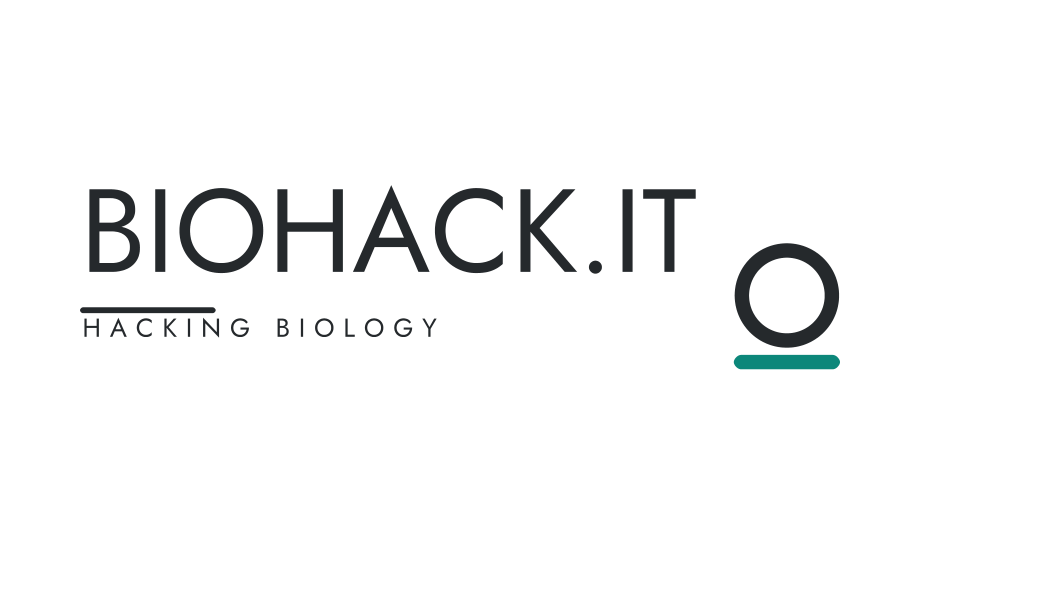
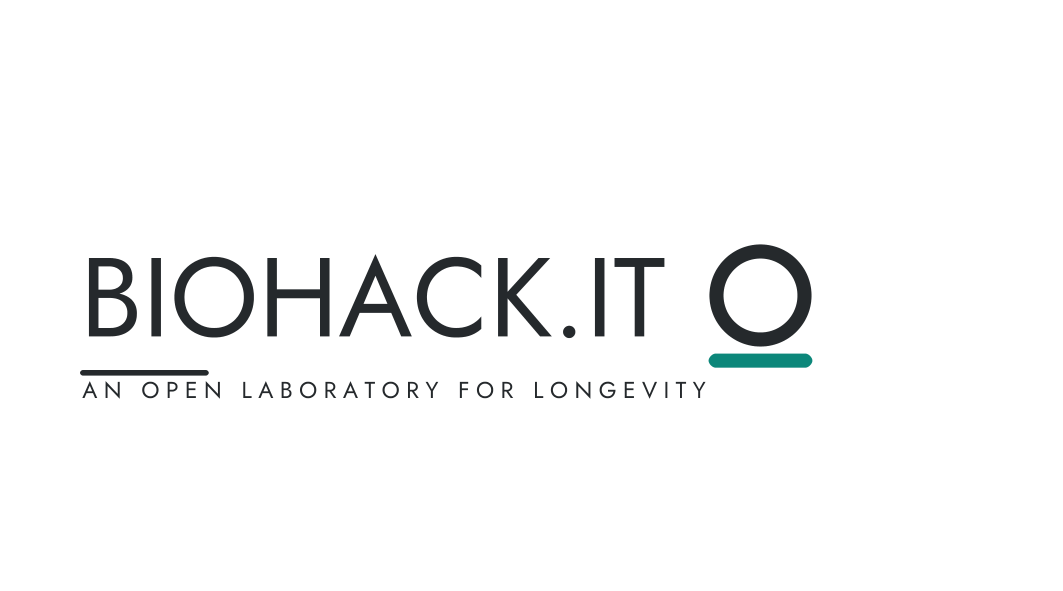
Two-line lockup system + mark alignment; payoff vs 'Hacking Biology'
- Kit: logos now use the payoff 'AN OPEN LABORATORY FOR LONGEVITY' as the
  single sub-line (no 3-line stack); the mark's ring is optically centred on
  the wordmark cap-height (fixes misalignment in banners/card/letterhead).
- Site hero: big payoff only (dropped the 'Hacking Biology' line).
- Site header (top-left): BIOHACK.IT with 'Hacking Biology' beneath.
- Footer lockup uses the payoff. 'Hacking Biology' now appears only in the
  header, per Fabio's rule.
- About sentence updated ('the instrument he wished for himself in hacking
  his own biology').

Changed region(s): [[0.0621, 0.3046, 0.8071, 0.6701], [0.5278, 0.3046, 0.5588, 0.335]]

diff --git a/docs/index.html b/docs/index.html
@@ -32,7 +32,10 @@
 
   header{position:sticky;top:0;z-index:20;background:color-mix(in srgb,var(--bg) 88%,transparent);backdrop-filter:blur(10px);border-bottom:1px solid var(--line)}
   nav{display:flex;align-items:center;gap:20px;height:62px}
-  nav .brand{display:inline-flex;align-items:center;gap:9px;font-family:var(--ff-display);font-weight:300;font-size:21px;letter-spacing:.04em;text-transform:uppercase}
+  nav .brand{display:inline-flex;align-items:center;gap:9px;text-transform:uppercase}
+  nav .brand .bwrap{display:flex;flex-direction:column;line-height:1}
+  nav .brand .bw{font-family:var(--ff-display);font-weight:300;font-size:20px;letter-spacing:.04em}
+  nav .brand .bs{font-family:var(--ff-display);font-weight:500;font-size:8px;letter-spacing:.2em;color:var(--muted);margin-top:3px}
   .navmark{width:23px;height:23px;flex:0 0 auto}
   .navmark .r{fill:none;stroke:var(--ink);stroke-width:8}
   .navmark .b{fill:var(--accent)}
@@ -105,7 +108,7 @@
 </style>
 
 <header><div class="wrap"><nav>
-  <span class="brand"><svg class="navmark" viewBox="0 0 100 100" aria-hidden="true"><circle class="r" cx="50" cy="42" r="26"/><rect class="b" x="20" y="80" width="60" height="8" rx="1.5"/></svg>BIOHACK.IT</span>
+  <span class="brand"><svg class="navmark" viewBox="0 0 100 100" aria-hidden="true"><circle class="r" cx="50" cy="42" r="26"/><rect class="b" x="20" y="80" width="60" height="8" rx="1.5"/></svg><span class="bwrap"><span class="bw">BIOHACK.IT</span><span class="bs">Hacking Biology</span></span></span>
   <span class="links">
     <a href="#what">What</a>
     <a href="#plan">Plan</a>
@@ -119,7 +122,6 @@
   <section class="hero"><div class="wrap">
     <p class="eyebrow">Open source · Non-profit · AGPL-3.0</p>
     <div class="mark">BIOHACK.IT</div>
-    <div class="lockup"><span class="bar"></span><span class="tag">Hacking Biology</span></div>
     <p class="statement">An open laboratory for longevity.</p>
     <p class="lead">Document your protocol, measure it with biomarkers, and share it — so the biohacking community learns from <strong>real, comparable, open data</strong>, with safety built in rather than bolted on.</p>
     <div class="cta-row">
@@ -167,7 +169,7 @@
   <section id="about" class="alt-band"><div class="wrap">
     <p class="eyebrow">About</p>
     <h2>The Software and the Foundation.</h2>
-    <p class="lead">biohack.it is an effort begun in <strong>2022</strong> by <strong><a href="https://linkedin.com/in/secret" target="_blank" rel="noopener">Fabio Pietrosanti</a></strong> — a hacker who turned to biology when his mother died of lung cancer. That loss set his focus on the biology of aging; he became a biohacker himself, and set out to give the international community the instrument he wished had existed.</p>
+    <p class="lead">biohack.it is an effort begun in <strong>2022</strong> by <strong><a href="https://linkedin.com/in/secret" target="_blank" rel="noopener">Fabio Pietrosanti</a></strong> — a hacker who turned to biology when his mother died of lung cancer. That loss set his focus on the biology of aging; he became a biohacker himself, and set out to give the international community the instrument he wished for himself in hacking his own biology.</p>
     <div class="about-grid">
       <div class="card"><h3>BIOHACK.IT</h3><p style="margin-top:12px">The <strong>software and the initiative</strong>: an open platform for the biohacking and longevity community to document protocols and measure them, together, in the open.</p></div>
       <div class="card"><h3>Hacking Biology Foundation</h3><p style="margin-top:12px">The <strong>non-profit foundation</strong> behind the initiative — it manages the project and its development, guarantees it never becomes commercial, and pursues social objectives in the service of biohackers and longevity.</p></div>
@@ -179,7 +181,7 @@
 
 <footer><div class="wrap">
   <div class="mark" style="font-size:34px">BIOHACK.IT</div>
-  <div class="lockup"><span class="bar" style="width:120px"></span><span class="tag">Hacking Biology</span></div>
+  <div class="lockup"><span class="bar" style="width:120px"></span><span class="tag">An open laboratory for longevity</span></div>
   <div class="flinks">
     <a href="/specs/" target="_blank" rel="noopener">Specs</a>
     <a href="/brand/guidelines.html" target="_blank" rel="noopener">Communication guide</a>

diff --git a/brand/build_kit.py b/brand/build_kit.py
@@ -44,25 +44,28 @@ def bar(x,y,w,h,color): return f'<rect x="{x:.1f}" y="{y:.1f}" width="{w:.1f}" h
 def svg(w,h,body,bg=PAPER):
     return f'<svg {NS} viewBox="0 0 {w} {h}" width="{w}" height="{h}"><rect width="{w}" height="{h}" fill="{bg}"/>{body}</svg>'
 
-def lockup(cx_left, y, wm_size, color=INK, teal=TEAL, center_w=None):
-    """Wordmark + bar + tagline + mark, returns svg body; anchored at left x=cx_left, wordmark baseline at y."""
-    wm,wmw = wordmark("BIOHACK.IT", F300, wm_size, cx_left, y, color)
-    tag,tagw = wordmark("HACKING BIOLOGY", F500, wm_size*0.22, cx_left+wm_size*0.02, y+wm_size*0.55, color, tracking=0.34)
-    barw=wm_size*1.15
-    b=bar(cx_left, y+wm_size*0.30, barw, wm_size*0.05, color)
-    return wm+b+tag, wmw
+def lockup(x, base, wm_size, sub="HACKING BIOLOGY", color=INK):
+    """Two-line lockup: wordmark + bar + one sub-line (payoff or 'HACKING BIOLOGY')."""
+    wm,wmw = wordmark("BIOHACK.IT", F300, wm_size, x, base, color)
+    subg,_ = wordmark(sub, F500, wm_size*0.205, x+wm_size*0.02, base+wm_size*0.55, color, tracking=0.28)
+    b=bar(x, base+wm_size*0.30, wm_size*1.15, wm_size*0.05, color)
+    return wm+b+subg, wmw
+
+def mark_on(cx, base, wm_size, d, ring=INK, barc=TEAL):
+    """Mark with its ring centred on the wordmark cap-centre (proper optical alignment)."""
+    top = base - 0.365*wm_size - d/2
+    return mark(cx, top, d, ring, barc)
 
 # ---------------- SOCIAL BANNERS (light) ----------------
 social=ROOT/"social"; social.mkdir(exist_ok=True)
 def banner(w,h,wm_size,pad,centered=False):
     _,wmw=wordmark("BIOHACK.IT",F300,wm_size,0,0,INK)
-    markd=wm_size*1.5; gap=wm_size*0.55; bw=markd*1.18
+    d=wm_size*1.35; gap=wm_size*0.6; bw=d*1.18
     lx=(w-(wmw+gap+bw))/2 if centered else pad
-    base=h*0.46
-    body,_=lockup(lx, base, wm_size, INK, TEAL)
-    body+=wordmark("An open laboratory for longevity.", F300, wm_size*0.30, lx+2, base+wm_size*0.95, MUTED)[0]
-    mcx = (lx+wmw+gap+markd/2) if centered else (w-pad-markd/2)
-    body+=mark(mcx, h*0.5-markd/2, markd, INK, TEAL)
+    base=h*0.5+wm_size*0.365            # wordmark cap-centre at h/2
+    body,_=lockup(lx, base, wm_size, "AN OPEN LABORATORY FOR LONGEVITY", INK)
+    mcx=(lx+wmw+gap+d/2) if centered else (w-pad-bw/2)
+    body+=mark_on(mcx, base, wm_size, d)
     return svg(w,h,body)
 banners={
  "x-header":(1500,500,140,120,False),
@@ -77,10 +80,11 @@ for n,(w,h,wm,pad,cen) in banners.items():
 prnt=ROOT/"print"; prnt.mkdir(exist_ok=True)
 CW,CH=1063,591
 # front
-fwm=118
+fwm=112
 _,fwmw=wordmark("BIOHACK.IT",F300,fwm,0,0,INK)
-fbody,_=lockup(80, CH*0.46, fwm, INK, TEAL)
-fbody+=mark(80+fwmw+90, CH*0.5-45, 90, INK, TEAL)
+fbase=CH*0.5+fwm*0.365
+fbody,_=lockup(80, fbase, fwm, "AN OPEN LABORATORY FOR LONGEVITY", INK)
+fbody+=mark_on(80+fwmw+95, fbase, fwm, 88)
 (prnt/"card-front.svg").write_text(svg(CW,CH,fbody),encoding="utf-8")
 # back
 bb=mark(90, 70, 70, INK, TEAL)
@@ -93,8 +97,9 @@ bb+=wordmark("HACKING BIOLOGY  ·  non-profit  ·  AGPL-3.0", F500, 20, 90, 540,
 
 # ---------------- LETTERHEAD (A4 @150dpi = 1240x1754) ----------------
 AW,AH=1240,1754
-lb=mark(96, 84, 60, INK, TEAL)
-lb+=wordmark("BIOHACK.IT", F300, 74, 190, 150, INK)[0]
+lbase=150
+lb=wordmark("BIOHACK.IT", F300, 74, 200, lbase, INK)[0]
+lb+=mark_on(120, lbase, 74, 58)
 lb+=bar(96, 210, 1048, 3, HAIR)
 lb+=bar(96, AH-140, 1048, 2, HAIR)
 lb+=wordmark("Hacking Biology Foundation  ·  non-profit  ·  AGPL-3.0  ·  biohack.it", F500, 22, 96, AH-96, FAINT, tracking=0.12)[0]
